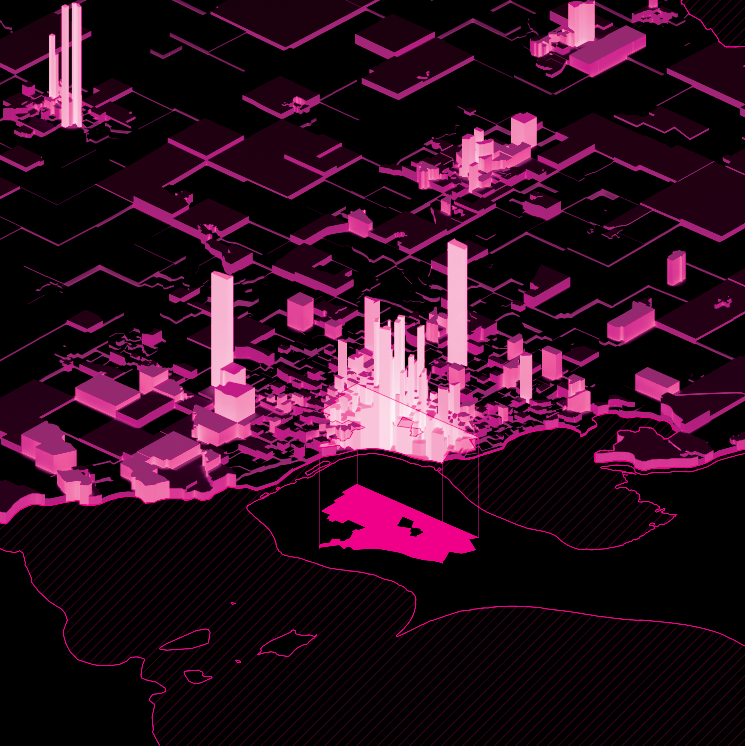
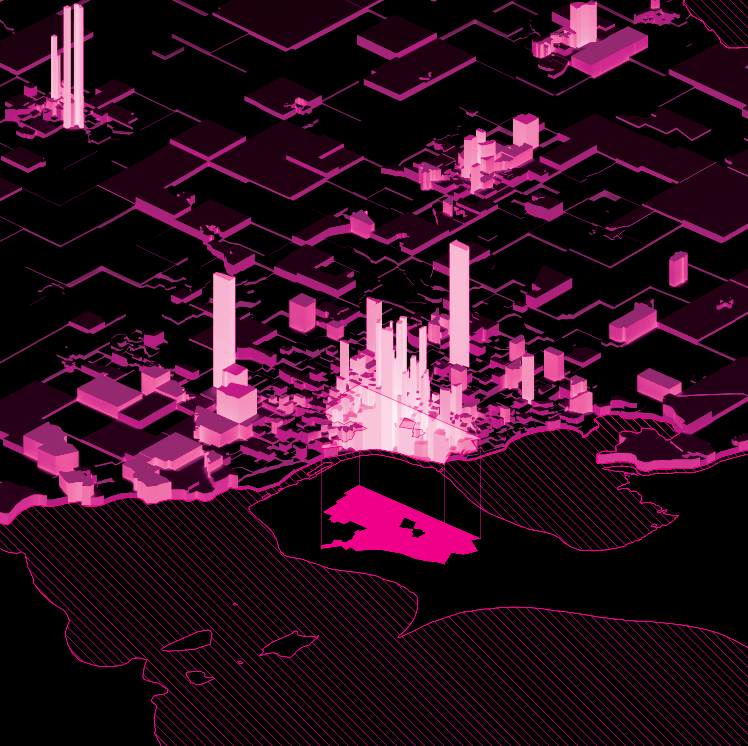
assorted changes

diff --git a/PrismMaps_Procedure.md b/PrismMaps_Procedure.md
@@ -71,9 +71,9 @@ In all that follows, the color - white or magenta - should be decided on a case-
 * **White** (C=0,M=0,Y=0,K=0) should be used where a a 'positive' variable is under consideration (e.g., amount of mortgage capital).
 
 #### 3.1 Add, Invert, and Color Rendered Data  
-1. Open the rendered prism map, change the file to CMYK color space, and invert it (ctrl-i). Add a new layer and fill it with true black (C=100, M=100, Y=100, K=100).  
+1. Open the rendered prism map, invert it (ctrl-i), and change the file to CMYK color space. **It's crucial that you invert before converting to CMYK!** Add a new background layer and fill it with true black (C=100, M=100, Y=100, K=100).  
 ![levels](https://raw.githubusercontent.com/designedspace/MSFF_Docs/master/Files/Media/3_1_1levels.PNG "Levels")  
-2. Using the levels tool, pull up the shadows (left-most triangle) so that it sits just below the first peak.
+2. Using the levels tool, pull up the shadows (left-most triangle) so that it sits below the first peak - you don't want to lose all detail in the darkest greys. A value of 45 worked well for me.
 3. Add a new layer fill it with the MSFF magenta (C=1, M=98, Y=0, K=0) and switch its blend mode to overlay (*Skip this step if making a 'white' map*).  
 4. Using the layer's blending options, create a stroke with a width of 3 pixels using the map color around the rendered data. The resulting image should look like the one below.  
 ![resulting image](https://raw.githubusercontent.com/designedspace/MSFF_Docs/master/Files/Media/3_1_2resulting.PNG "Resulting Image")  
